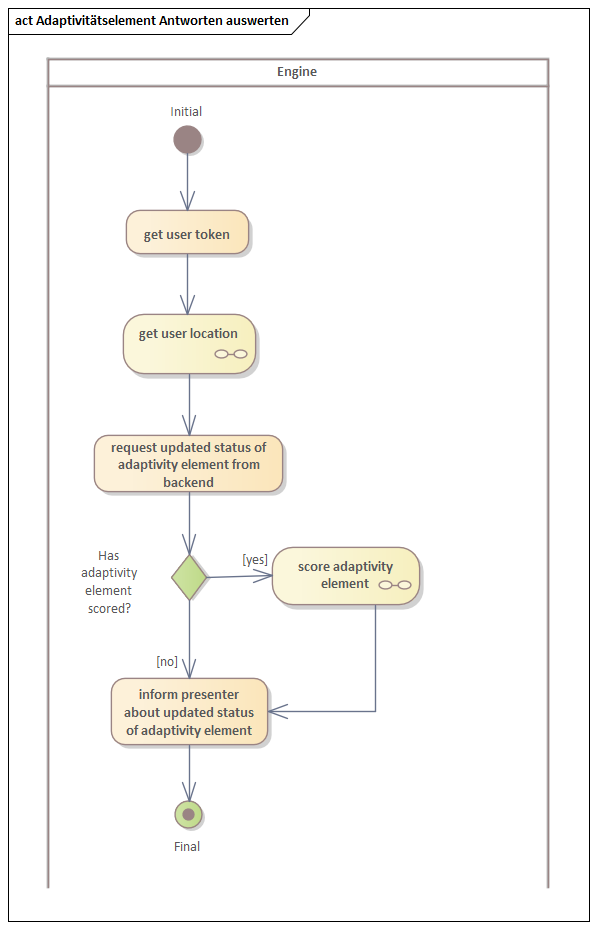
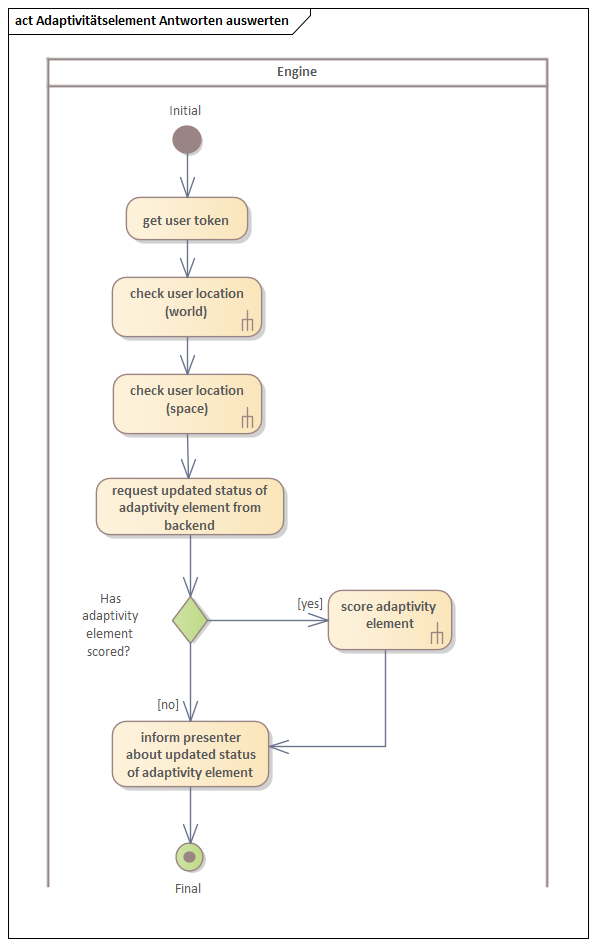
updated acceptance criteria and activity diagramms of adaptivity element

Changed region(s): [[0.0302, 0.0, 0.906, 0.9677], [0.906, 0.9365, 0.9362, 0.9677], [0.0604, 0.9365, 0.0906, 0.9677]]

diff --git a/AdLerDokumentation/Writerside/topics/EWE0002.md b/AdLerDokumentation/Writerside/topics/EWE0002.md
@@ -7,6 +7,8 @@ Die Engine muss den Status eines [Adaptivitätselement](Adaptivitätselement-GE.
 # Akzeptanzkriterien:
 - Es wird übermittelt, ob [Fragen](Adaptivitätsfrage-GE.md) nicht, falsch oder richtig beantwortet wurden
 - Es wird übermittelt, ob das Adaptivitätselement abgeschlossen wurde
+- [Lernraumstatus wird geprüft](EZZ0013.md)
+- [Lernweltstatus wird geprüft](ELG0009.md)
 
 # Aktivitätsdiagramm:
 ![](imageEngineAdaptivitätselementStatusLaden.png)

diff --git a/AdLerDokumentation/Writerside/topics/EWE0005.md b/AdLerDokumentation/Writerside/topics/EWE0005.md
@@ -8,6 +8,9 @@ Korrektheit der Auswahl prüfen.
 # Akzeptanzkriterien:
 - Prüfung der Antwortmöglichkeiten erfolgt über das [Backend](Backend-GE.md)
 - Falls das Adaptivitätselement abgeschlossen wird, werden [Punkte vergeben](EWE0003.md)
+- [Lernraumstatus wird geprüft](EZZ0013.md)
+- [Lernweltstatus wird geprüft](ELG0009.md)
+- [Adaptivitätselement werten](EWE0003.md)
 
 # Aktivitätsdiagramm:
 ![](imageEngineAdaptivitätselementAntwortenAuswerten.png)

diff --git a/AdLerDokumentation/Writerside/topics/EWE0013.md b/AdLerDokumentation/Writerside/topics/EWE0013.md
@@ -8,6 +8,8 @@ den Inhalt des Adaptivitätselements laden.
 # Akzeptanzkriterien:
 - Daten des Adaptivitätselements werden aus bereitgestellten Objekten entnommen
 - [Status des Adaptivitätselement wird geladen](EWE0002.md)
+- [Lernraumstatus wird geprüft](EZZ0013.md)
+- [Lernweltstatus wird geprüft](ELG0009.md)
 
 # Aktivitätsdiagramm:
 ![](imageEngineAdaptivitätselementInhaltLaden.png)

diff --git a/AdLerDokumentation/Writerside/topics/EWE0003.md b/AdLerDokumentation/Writerside/topics/EWE0003.md
@@ -8,6 +8,8 @@ Sobald der Lernende ein [Adaptivitätselement](Adaptivitätselement-GE.md) erfol
 - Punktzahl des Lernraums wird aktualisiert
 - Punktzahl der Lernwelt wird aktualisiert
 - [Anmeldestatus wird geprüft](EWE0021.md)
+- [Lernraumstatus wird geprüft](EZZ0013.md)
+- [Lernweltstatus wird geprüft](ELG0009.md)
 
 # Aktivitätsdiagramm:
 ![](imageEngineAdaptivitätselementWerten.png)
